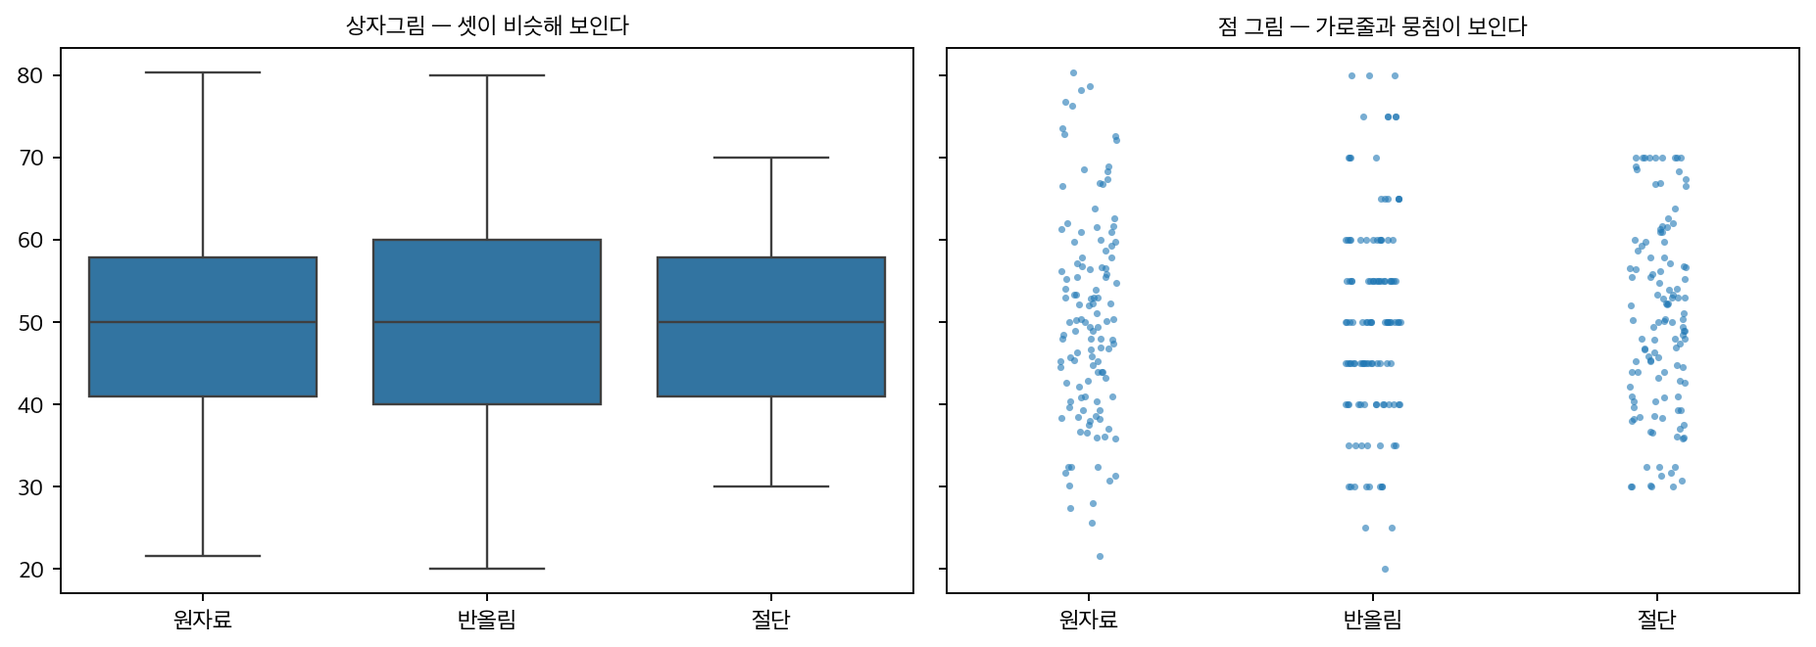
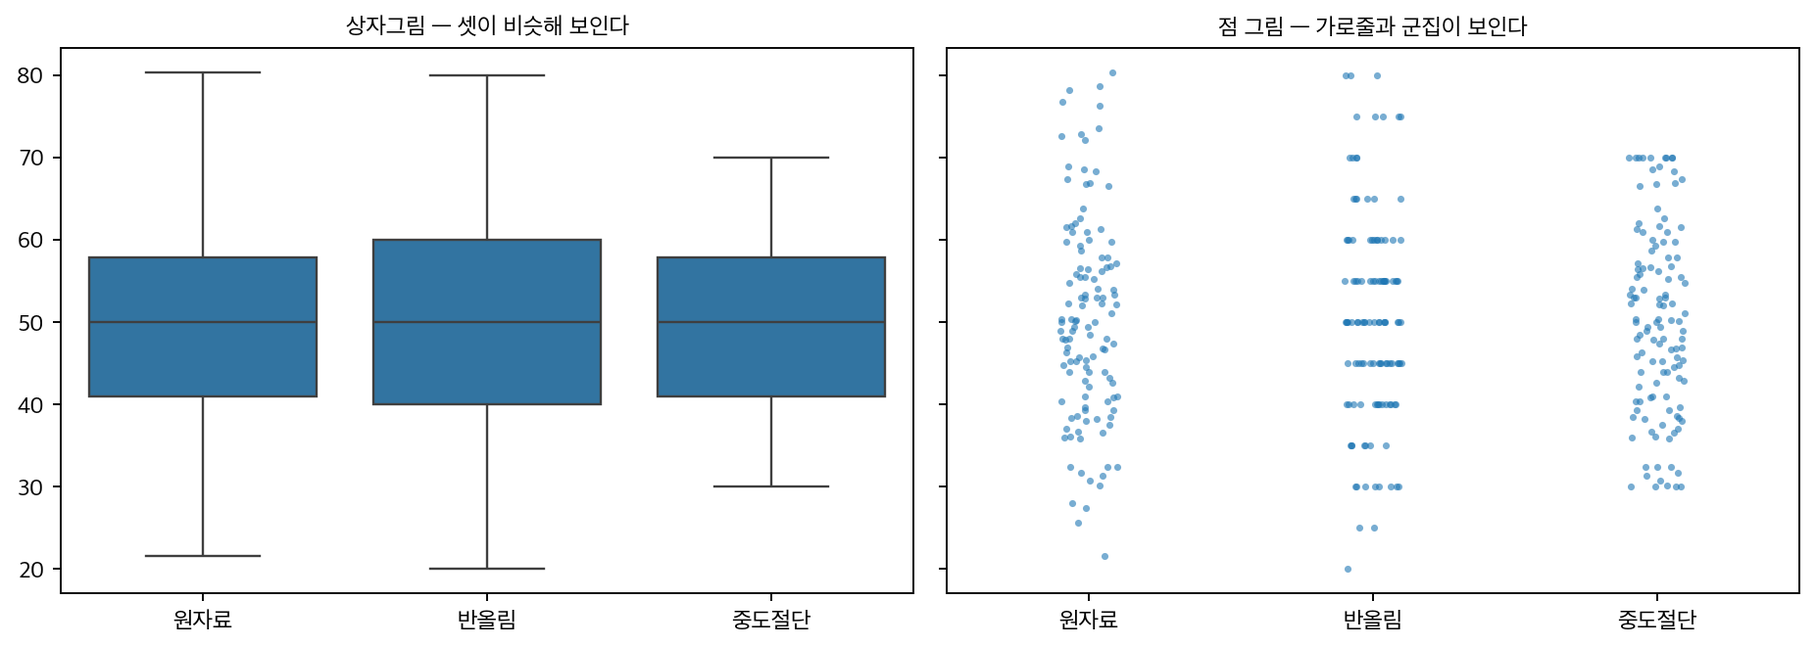
style(ch00–03): 받아들인 권고를 적용하고 용어를 맞춘다
사용자가 남은 권고를 모두 받아들였다. 사전부터 고쳤다 — 「균일분포」를 책 본문의 다수형
「균등분포」(427 대 7)로 바꾸고 「최소분산 불편추정량」을 올린 뒤 용어집을 다시 만들었다.

0~3장에서:
- 연속성 보정 → 연속성 수정 10 곳(clt·berry_esseen·mosaic·titanic_age_cutoff)
- 스노우 → 스노 3, 와이블 → 와이불 1, 부분집단 → 하위집단 4(모두 subgroup 뜻),
  \text{Geometric} → \text{Geo} 2
- strip_swarm: np.clip 으로 경계에 쌓는 것은 중도절단이다. 라벨·출력·그림을 「중도절단」으로
  바꾸고 strip_swarm_395.png 를 다시 그렸다(verify OK).
- 병기 도구가 괄호 안 첫 출현에 넣어 겹괄호가 된 두 자리(joint·modality)는 문장을 풀어 고쳤다.
- 권고가 「그대로 둔다」였던 셋은 두었다. 한글 표기가 책에 없는 로마자 인명 다섯은 짓지 않고 두었다.

diff --git a/docs/ch02/exploration/histograms.md b/docs/ch02/exploration/histograms.md
@@ -793,7 +793,7 @@ $$
 
 <figure markdown>
   ![1855년 책의 한 쪽. 위에 설명 한 문단이 있고 가운데에 세 줄짜리 표가 있다. 표의 세 칸은 집의 수, 콜레라 사망자 수, 만 집마다의 사망자 수다](./img/fd__snow1855_p86.png){ width=640 }
-  <figcaption markdown>존 스노우 『콜레라의 전파 방식에 관하여』 제 $2$ 판($1855$) $86$ 쪽의 「표 $\mathrm{IX}$」. 세 칸이 차례로 **집의 수**, **콜레라 사망자 수**, 그리고 **만 집마다의 사망자 수**다. 머리글은 「$1854$ 년의 유행」이다. *(Wellcome Library 스캔)*</figcaption>
+  <figcaption markdown>존 스노 『콜레라의 전파 방식에 관하여』 제 $2$ 판($1855$) $86$ 쪽의 「표 $\mathrm{IX}$」. 세 칸이 차례로 **집의 수**, **콜레라 사망자 수**, 그리고 **만 집마다의 사망자 수**다. 머리글은 「$1854$ 년의 유행」이다. *(Wellcome Library 스캔)*</figcaption>
 </figure>
 
 위 식이 백분율을 폭으로 나누는 것처럼, 도수를 **그 갈래의 크기로 나누어** 비율(율)로 고쳐야 할 때가 있다. 왜 굳이 나누는지를 한 장으로 보여 주는 표가 있다.
@@ -808,13 +808,13 @@ $$
 
 가장 많이 죽은 곳은 **나머지 런던**이다. 그런데 집의 수가 각각 $40{,}046$, $26{,}107$, $256{,}423$ 으로 하늘과 땅 차이다. 집의 수로 나누어 만 집마다로 고치면 순서가 뒤집힌다 — $315$, $37$, 그리고 $59$. 사망자가 가장 많던 나머지 런던이 둘째로 **안전한** 쪽이 되고, 사망자 수로는 나머지 런던보다 적던 회사가 다섯 배 넘게 위험한 쪽이 된다. 책은 바로 아래 문장에서 이렇게 맺는다 — 그 회사의 집에서의 사망률은 다른 회사의 집보다 **여덟 배와 아홉 배 사이**로 컸다고. $315\div37=8.5$ 이니 그대로다.
 
-같은 유행을 **다른 각도**에서 읽은 것이 1.2절 [관찰연구](../../ch01/classical/observational.md)의 상자다. 거기서는 스노우가 그린 **지도**를 보며, 펌프마다 「가장 가까운 구역」을 두른 점선이 처치를 받은 구역과 받지 않은 구역을 가른 선이라는 것을 따진다.
+같은 유행을 **다른 각도**에서 읽은 것이 1.2절 [관찰연구](../../ch01/classical/observational.md)의 상자다. 거기서는 스노가 그린 **지도**를 보며, 펌프마다 「가장 가까운 구역」을 두른 점선이 처치를 받은 구역과 받지 않은 구역을 가른 선이라는 것을 따진다.
 
 나누지 않았다면 이 표는 「런던 전체가 문제」라고 말했을 것이다. 나누고 나서야 **물을 어디서 떠 왔는가**가 드러났다. 크기로 나누는 일이 하는 것이 그것이다 — 크기가 다른 집단을 같은 척도 위에 올려놓는 일이다. 위 도수분포표에서 폭이 다른 계급의 높이를 폭으로 나누어 맞추는 것도 똑같은 셈이다.
 
 덧붙여, 표를 직접 맞추어 보면 셋째 줄이 어긋난다. $1{,}263\div40{,}046$ 은 만 집당 $315.4$ 이고 $98\div26{,}107$ 은 $37.5$ 로 적힌 값과 맞는데, $1{,}422\div256{,}423$ 은 $55.5$ 여서 표의 $59$ 와 다르다. 손으로 수천 개를 셈하던 시절의 자취일 것이다. 다행히 이 불일치는 글의 주장을 건드리지 않는다. 견주는 두 줄은 맞고, $315$ 와 $37$ 의 거리는 그런 정도로 좁혀지지 않는다.
 
-_확인한 곳 — 스캔은 [Internet Archive 에 올라온 Wellcome Library 사본](https://archive.org/details/b28985266) — 존 스노우, 『콜레라의 전파 방식에 관하여』 제 $2$ 판(런던, $1855$), 저자가 $1858$ 년에 죽어 저작권이 만료되었다. 쪽 번호 $86$, 머리글 「$1854$ 년의 유행」, 「유행의 첫 일곱 주 동안 만 집에 대한 사망자의 비율」이라는 들머리, 표 $\mathrm{IX}$ 의 아홉 칸($40{,}046$／$1{,}263$／$315$, $26{,}107$／$98$／$37$, $256{,}423$／$1{,}422$／$59$), 그리고 「여덟 배와 아홉 배 사이로 컸다」는 바로 아래 문장은 모두 **사진에서 직접 읽었다** · 두 회사가 템스강의 서로 다른 자리에서 물을 떠 왔다는 것은 같은 책의 앞부분에 있다 · **나눗셈은 이 쪽에서 직접 해 보았다** — $315.4$, $37.5$, $55.5$ 이고 $315\div37=8.51$ 이다. 셋째 줄이 표의 $59$ 와 어긋나는 것도 그 계산에서 나온 것이다_
+_확인한 곳 — 스캔은 [Internet Archive 에 올라온 Wellcome Library 사본](https://archive.org/details/b28985266) — 존 스노, 『콜레라의 전파 방식에 관하여』 제 $2$ 판(런던, $1855$), 저자가 $1858$ 년에 죽어 저작권이 만료되었다. 쪽 번호 $86$, 머리글 「$1854$ 년의 유행」, 「유행의 첫 일곱 주 동안 만 집에 대한 사망자의 비율」이라는 들머리, 표 $\mathrm{IX}$ 의 아홉 칸($40{,}046$／$1{,}263$／$315$, $26{,}107$／$98$／$37$, $256{,}423$／$1{,}422$／$59$), 그리고 「여덟 배와 아홉 배 사이로 컸다」는 바로 아래 문장은 모두 **사진에서 직접 읽었다** · 두 회사가 템스강의 서로 다른 자리에서 물을 떠 왔다는 것은 같은 책의 앞부분에 있다 · **나눗셈은 이 쪽에서 직접 해 보았다** — $315.4$, $37.5$, $55.5$ 이고 $315\div37=8.51$ 이다. 셋째 줄이 표의 $59$ 와 어긋나는 것도 그 계산에서 나온 것이다_
 
 </div>
 

diff --git a/docs/ch03/limits/clt.md b/docs/ch03/limits/clt.md
@@ -2,7 +2,7 @@
 
 ## 개요
 
-평평한 균등분포, 오른쪽으로 길게 늘어진 로그정규분포, 값이 $0$ 과 $1$ 둘뿐인 베르누이분포 — 어느 것도 종 모양이 아니다. 그런데 각각에서 표본 쉰 개의 평균을 표준화해 모아 보면 표준정규분포와의 거리가 $0.018$, $0.029$, $0.085$ 로 한자리에 모여 든다. 로그정규분포의 왜도도 $n = 5$ 의 $+1.62$ 에서 $n = 50$ 의 $+0.41$ 로 씻겨 나간다. 그런데 같은 쉰 개로 만든 $95\%$ 신뢰구간의 실제 포함확률은 치우친 분포에서 아직 명목값에 못 미친다. 모집단의 모양은 셈의 어느 자리에서 사라지며, 사라졌다고 보아도 될 $n$ 은 얼마인가.
+평평한 균등분포(uniform distribution), 오른쪽으로 길게 늘어진 로그정규분포, 값이 $0$ 과 $1$ 둘뿐인 베르누이분포 — 어느 것도 종 모양이 아니다. 그런데 각각에서 표본 쉰 개의 평균을 표준화해 모아 보면 표준정규분포와의 거리가 $0.018$, $0.029$, $0.085$ 로 한자리에 모여 든다. 로그정규분포의 왜도도 $n = 5$ 의 $+1.62$ 에서 $n = 50$ 의 $+0.41$ 로 씻겨 나간다. 그런데 같은 쉰 개로 만든 $95\%$ 신뢰구간의 실제 포함확률은 치우친 분포에서 아직 명목값에 못 미친다. 모집단의 모양은 셈의 어느 자리에서 사라지며, 사라졌다고 보아도 될 $n$ 은 얼마인가.
 
 큰수의 법칙은 표본평균(sample mean)이 **어디로** 가는지 알려 주었다. 그러나 어떻게 가는지는 말해 주지 않았다. $n = 100$에서 표본평균이 $\mu$에서 얼마나 떨어져 있을 가능성이 큰가? 그 오차의 분포는 어떤 모양인가?
 
@@ -347,7 +347,7 @@ $$
 
     **도착 순서는 [KS](../../glossary.md#ks) 거리가 매긴다.** $n = 5$에서 균등 $0.019$, 지수 $0.057$, 로그정규 $0.083$이고, $n = 50$에서는 각각 $0.018$, $0.029$, $0.029$다. **치우친 분포일수록 늦게 도착할 뿐 도착하지 않는 것은 아니다.** 왜도(skew)가 지수분포에서 $0.95 \to 0.32$로, 로그정규에서 $1.62 \to 0.41$로 줄어드는 것이 그 과정이며, 둘 다 대략 $1/\sqrt n$의 속도다($\sqrt{50/5} = 3.16$배 줄어야 하고 실제로 $3.0$배, $4.0$배 줄었다).
 
-    **베르누이는 다른 이유로 뒤처진다.** $\bar X_n$이 격자 $k/n$ 위에만 있으므로 히스토그램이 매끄러운 곡선이 될 수 없고, KS 거리가 $n = 35$ 이후 $0.082$–$0.085$에서 더 내려가지 않는다. 격자분포의 누적분포함수(cumulative distribution function)는 계단이어서, 연속인 정규분포와의 KS 거리가 **가장 큰 도약의 절반**보다 작아질 수 없기 때문이다. $n = 50$, $p = 0.3$에서 가장 큰 확률질량이 $P(S_{50} = 15) = 0.1223$이므로 그 하한이 $0.061$이고, 관측된 $0.085$가 그 위에 놓인다. **이것은 수렴이 멈춘 것이 아니라 이산성이 남긴 계단이며**, 이 절 뒤의 [베리–에센 정리](berry_esseen.md) 페이지가 그 계단의 크기를 정확히 재고 연속성 보정으로 어떻게 다루는지 다룬다.
+    **베르누이는 다른 이유로 뒤처진다.** $\bar X_n$이 격자 $k/n$ 위에만 있으므로 히스토그램이 매끄러운 곡선이 될 수 없고, KS 거리가 $n = 35$ 이후 $0.082$–$0.085$에서 더 내려가지 않는다. 격자분포의 누적분포함수(cumulative distribution function)는 계단이어서, 연속인 정규분포와의 KS 거리가 **가장 큰 도약의 절반**보다 작아질 수 없기 때문이다. $n = 50$, $p = 0.3$에서 가장 큰 확률질량이 $P(S_{50} = 15) = 0.1223$이므로 그 하한이 $0.061$이고, 관측된 $0.085$가 그 위에 놓인다. **이것은 수렴이 멈춘 것이 아니라 이산성이 남긴 계단이며**, 이 절 뒤의 [베리–에센 정리](berry_esseen.md) 페이지가 그 계단의 크기를 정확히 재고 연속성 수정으로 어떻게 다루는지 다룬다.
 
     $n = 5$에서 베르누이 윗줄의 확률이 정확히 $1.000$인 것도 같은 이산성 때문이다. 이때 $\bar X_5$가 가질 수 있는 값은 $0, 0.2, 0.4, \ldots$뿐이라 $\mu = 0.3$에서 최소 $0.1$은 떨어지는데, $\varepsilon = 0.2\sigma = 0.092$가 그보다 좁다. **한 번도 띠 안에 들어올 수 없는 것이고, 모의실험의 우연이 아니다.**
 

diff --git a/docs/ch03/limits/berry_esseen.md b/docs/ch03/limits/berry_esseen.md
@@ -365,7 +365,7 @@ $\rho/\sigma^3$은 왜도(skewness)의 사촌이다. 왜도가 $E[(X-\mu)^3]/\si
 
 **보기 4.** <span class="diff easy" title="쉬움"></span> 분포별 정규근사의 수렴 속도. 베르누이(0.5)·균등(0,1)·지수(1)의 베리–에센 상한을 $n = 5$부터 $500$까지 겹쳐 그린다.
 
-**(1)** 세 곡선의 높이 비를 $\rho/\sigma^3$으로 구하시오. 균등분포의 $\rho$는 적분으로 직접 구하시오.
+**(1)** 세 곡선의 높이 비를 $\rho/\sigma^3$으로 구하시오. 균등분포(uniform distribution)의 $\rho$는 적분으로 직접 구하시오.
 
 **(2)** 상한이 $0.1$ 이하가 되려면 각각 $n$이 얼마여야 하는가. 그려서 확인하시오.
 
@@ -674,12 +674,12 @@ $\mu = 1$, $\sigma = 1$, $\rho = E[|X-1|^3] = 12e^{-1} - 2 \approx 2.4146$인 Ex
 <div class="drillbox" markdown>
 
 **연습문제 6.** <span class="diff med" title="중간"></span>
-연습문제 $5$ 에서 오차의 정체가 **이산성**임을 보았다. 그렇다면 **연속성 보정**으로 없앨 수 있는가? 대칭인 경우와 치우친 경우를 나누어 확인하라.
+연습문제 $5$ 에서 오차의 정체가 **이산성**임을 보았다. 그렇다면 **연속성 수정**(continuity correction)으로 없앨 수 있는가? 대칭인 경우와 치우친 경우를 나누어 확인하라.
 
 </div>
 
 ??? success "풀이"
-    연속성 보정은 $P(S_n\le k)$를 $\Phi$에 넣을 때 $k$ 대신 $k+\tfrac12$을 쓴다. **계단의 중간점**을 쓰는 것이므로, 연습문제 $5$의 "계단 절반" 오차를 정확히 겨냥한다.
+    연속성 수정은 $P(S_n\le k)$를 $\Phi$에 넣을 때 $k$ 대신 $k+\tfrac12$을 쓴다. **계단의 중간점**을 쓰는 것이므로, 연습문제 $5$의 "계단 절반" 오차를 정확히 겨냥한다.
 
     ```python
     import numpy as np
@@ -747,23 +747,23 @@ $\mu = 1$, $\sigma = 1$, $\rho = E[|X-1|^3] = 12e^{-1} - 2 \approx 2.4146$인 Ex
     \;+\;\underbrace{\frac{S(\cdot)}{\sigma\sqrt n}\phi(x)}_{\text{격자 항}}+O(n^{-1})
     $$
 
-    | 경우 | 왜도 항 | 격자 항 | 연속성 보정 후 |
+    | 경우 | 왜도 항 | 격자 항 | 연속성 수정 후 |
     |---|---|---|---|
     | $p=0.5$ | $\gamma_1=0$이라 **없음** | 있음 | 둘 다 사라져 $O(n^{-1})$ |
     | $p=0.1$ | $\gamma_1\ne0$이라 **남음** | 있음 | 격자 항만 제거, 여전히 $O(n^{-1/2})$ |
 
-    **연속성 보정은 격자 항만 지운다.** 대칭분포는 왜도가 $0$이라 그것으로 충분하고, 치우친 분포는 왜도 항이 남는다.
+    **연속성 수정은 격자 항만 지운다.** 대칭분포는 왜도가 $0$이라 그것으로 충분하고, 치우친 분포는 왜도 항이 남는다.
 
     **처방이 명확해진다.**
 
     | 상황 | 해야 할 일 |
     |---|---|
-    | 대칭 이산분포 | 연속성 보정으로 충분 |
+    | 대칭 이산분포 | 연속성 수정으로 충분 |
     | 치우친 이산분포 | 보정 **더하기** 왜도 보정(에지워스) |
     | 왜도가 매우 큼($np<5$) | 근사를 버리고 **정확 계산**(`scipy.stats.binom`) |
     | 꼬리확률이 중요 | 정확 계산 또는 안장점 근사(saddlepoint approximation) |
 
-    **현대적 결론.** 연속성 보정은 계산이 비쌌던 시절의 유산이지만, 지금도 **왜 근사가 틀리는지**를 분해해 보여주는 도구로서 가치가 있다. 실제 계산에서는 이항분포의 정확한 확률을 그냥 구하면 되고, 근사가 필요한 경우는 이항분포가 더 큰 모형의 한 부품일 때다.
+    **현대적 결론.** 연속성 수정은 계산이 비쌌던 시절의 유산이지만, 지금도 **왜 근사가 틀리는지**를 분해해 보여주는 도구로서 가치가 있다. 실제 계산에서는 이항분포의 정확한 확률을 그냥 구하면 되고, 근사가 필요한 경우는 이항분포가 더 큰 모형의 한 부품일 때다.
 
 ---
 

diff --git a/docs/ch02/visualization/strip_swarm.md b/docs/ch02/visualization/strip_swarm.md
@@ -646,15 +646,15 @@
     n = 120
     true = rng.normal(50, 12, n)
     rounded = np.round(true / 5) * 5                       # 5 단위로 반올림
-    censored = np.clip(true, 30, 70)                       # 측정 한계에서 잘림
+    censored = np.clip(true, 30, 70)                       # 측정 한계에서 경계로 쌓임(중도절단)
 
-    for name, d in [("원자료", true), ("5 단위 반올림", rounded), ("30~70 에서 절단", censored)]:
+    for name, d in [("원자료", true), ("5 단위 반올림", rounded), ("30~70 에서 중도절단", censored)]:
         u = len(np.unique(np.round(d, 6)))
         print(f"{name:>14}: 서로 다른 값 {u:>3}개 / {n}개   "
               f"중앙값 {np.median(d):.2f}   IQR {np.subtract(*np.percentile(d, [75, 25])):.2f}")
 
     fig, axes = plt.subplots(1, 2, figsize=(11, 4), sharey=True)
-    label = np.repeat(["원자료", "반올림", "절단"], n)
+    label = np.repeat(["원자료", "반올림", "중도절단"], n)
     flat = np.concatenate([true, rounded, censored])
     sns.boxplot(x=label, y=flat, ax=axes[0])
     axes[0].set_title("상자그림 — 셋이 비슷해 보인다", fontsize=10)
@@ -669,22 +669,22 @@
     ```
                원자료: 서로 다른 값 120개 / 120개   중앙값 49.99   IQR 16.82
           5 단위 반올림: 서로 다른 값  13개 / 120개   중앙값 50.00   IQR 20.00
-       30~70 에서 절단: 서로 다른 값 109개 / 120개   중앙값 49.99   IQR 16.82
+     30~70 에서 중도절단: 서로 다른 값 109개 / 120개   중앙값 49.99   IQR 16.82
     ```
 
-    ![반올림과 절단이 점 그림에 드러나는 모습](./img/strip_swarm_395.png)
+    ![반올림과 중도절단이 점 그림에 드러나는 모습](./img/strip_swarm_395.png)
 
     **상자그림에서는 세 자료가 비슷해 보인다.** 중앙값과 [IQR](../../glossary.md#iqr)이 크게 다르지 않기 때문이다.
 
     **점 그림에서는 즉시 드러난다.**
 
     - **반올림 자료**는 점들이 **가로줄로 늘어선다.** $5$의 배수에만 점이 있으므로 이산적인 층이 보인다(2.2절 [히스토그램과 밀도 그림](../exploration/histograms.md) 연습문제 9의 자릿수 쏠림).
-    - **절단 자료**는 $30$과 $70$에 점이 **빽빽하게 쌓인다.** 측정 한계 밖의 값이 모두 그 지점으로 모였기 때문이다.
+    - **중도절단(censoring) 자료**는 $30$과 $70$에 점이 **빽빽하게 쌓인다.** 측정 한계 밖의 값이 모두 그 지점으로 모였기 때문이다.
 
     **왜 이것이 중요한가.**
 
     - **반올림은 분산을 부풀리고**(왜도(skewness)·첨도(kurtosis) 쪽 연습문제에서 본 대로) 특정 분위수를 반올림된 값에 고정시킨다.
-    - **절단은 양 끝의 값을 경계로 끌어당겨 분포를 왜곡한다.** 절단된 자료로 계산한 표준편차는 참값보다 작다.
+    - **중도절단은 양 끝의 값을 경계로 끌어당겨 분포를 왜곡한다.** 중도절단된 자료로 계산한 표준편차는 참값보다 작다.
     - **둘 다 요약통계량만으로는 알 수 없다.** 원자료를 보아야 한다.
 
     **점 그림의 고유한 가치가 여기 있다.** 상자그림·바이올린·히스토그램은 모두 자료를 **요약하거나 평활**하므로 이산성을 지운다. 점 그림만이 관측값을 있는 그대로 보여 준다.

diff --git a/docs/ch01/contrast/analyze_available.md b/docs/ch01/contrast/analyze_available.md
@@ -349,7 +349,7 @@ _확인한 곳 — Xiao-Li Meng, 「Statistical Paradises and Paradoxes in Big D
         young = rng.random(n) < 0.5
 
         pvals = []
-        for subset in (np.ones(n, bool), male, ~male, young, ~young):   # 부분집단
+        for subset in (np.ones(n, bool), male, ~male, young, ~young):   # 하위집단
             for transform in (lambda v: v, np.abs):                     # 변환
                 for exclude in (False, True):                           # 이상치 제외
                     m = subset & (np.abs(x) < 2) if exclude else subset
@@ -375,7 +375,7 @@ _확인한 곳 — Xiao-Li Meng, 「Statistical Paradises and Paradoxes in Big D
     단일 분석만 했다면:             0.0500
     ```
 
-    **부분집단 $5$가지 $\times$ 변환 $2$가지 $\times$ 이상치 처리 $2$가지 $=$ 갈래 $20$개**만으로 거짓양성 확률이 $5\%$에서 **$40\%$** 로 뛴다.
+    **하위집단 $5$가지 $\times$ 변환 $2$가지 $\times$ 이상치 처리 $2$가지 $=$ 갈래 $20$개**만으로 거짓양성 확률이 $5\%$에서 **$40\%$** 로 뛴다.
 
     **$p$-해킹과 무엇이 다른가.** 이것이 연습문제 4의 핵심이다.
 
@@ -384,7 +384,7 @@ _확인한 곳 — Xiao-Li Meng, 「Statistical Paradises and Paradoxes in Big D
 
     그런데 통계적 결과는 같다. "이 자료가 달랐다면 나는 다른 분석을 했을 것"이라면, 실제로 돌린 분석이 하나뿐이어도 유효 검정 횟수는 $20$이다. **$p$ 값의 의미는 내가 한 일이 아니라 내가 했을 법한 일 전체에 달려 있다.**
 
-    **왜 가용 자료 분석에서 특히 심한가.** 설계된 실험에는 사전에 정한 하나의 결과변수와 하나의 분석이 있다. 클릭스트림 자료에는 수백 개의 변수, 수십 개의 자연스러운 부분집단, 여러 가지 그럴듯한 결과 정의가 있다. **정원의 갈래가 훨씬 많다.**
+    **왜 가용 자료 분석에서 특히 심한가.** 설계된 실험에는 사전에 정한 하나의 결과변수와 하나의 분석이 있다. 클릭스트림 자료에는 수백 개의 변수, 수십 개의 자연스러운 하위집단, 여러 가지 그럴듯한 결과 정의가 있다. **정원의 갈래가 훨씬 많다.**
 
     처방은 사전등록(1.2절 [자료 수집을 설계하라](design_data.md) 연습문제 6), 자료 분할(탐색용과 확증용을 나눔), 그리고 다중성 보정이다.
 

diff --git a/docs/ch02/shape/modality.md b/docs/ch02/shape/modality.md
@@ -347,7 +347,7 @@
 </div>
 
 ??? success "풀이"
-    **딥 검정:** 경험적 누적분포함수(cumulative distribution function)와 가장 가까운 *단봉* 누적분포함수(어느 점까지는 볼록하고 그 뒤로는 오목해서 변곡점이 하나뿐인 것 — 밀도가 그 점까지 오르다가 내려간다는 뜻이다) 사이의 최대 수직 거리를 계산한다. 단봉이라는 귀무가설 아래에서 이 딥 통계량은 작고, 이봉이나 다봉이라는 대립가설(alternative hypothesis) 아래에서는 어떤 단봉 누적분포함수도 경험적인 것을 가깝게 근사할 수 없으므로 커진다. (균등분포 귀무가설에서 모의실험으로 계산한) 기준 분포가 $p$ 값을 제공한다.
+    **딥 검정:** 경험적 누적분포함수(cumulative distribution function)와 가장 가까운 *단봉* 누적분포함수(어느 점까지는 볼록하고 그 뒤로는 오목해서 변곡점이 하나뿐인 것 — 밀도가 그 점까지 오르다가 내려간다는 뜻이다) 사이의 최대 수직 거리를 계산한다. 단봉이라는 귀무가설 아래에서 이 딥 통계량은 작고, 이봉이나 다봉이라는 대립가설(alternative hypothesis) 아래에서는 어떤 단봉 누적분포함수도 경험적인 것을 가깝게 근사할 수 없으므로 커진다. 균등분포(uniform distribution)를 귀무가설로 두고 모의실험으로 계산한 기준 분포가 $p$ 값을 제공한다.
 
     **대안 — 실버만의 대역폭 검정:** 가우시안 KDE가 많아야 $k$개의 최빈값을 갖게 하는 가장 작은 대역폭 $h$를 찾는다. 이 임계 대역폭이 귀무가설(봉우리 $k$개 이하) 아래에서 기대되는 것보다 유의하게 크면 "최빈값이 많아야 $k$개"라는 귀무가설을 기각한다. 부트스트랩(bootstrap) 보정으로 $p$ 값을 구한다.
 

diff --git a/docs/ch00/math/limits.md b/docs/ch00/math/limits.md
@@ -702,7 +702,7 @@ $$
       1/log n 속도: n -> n^10       = 10^60
     ```
 
-    **해석.** $n^{-1/2}$은 정칙 모수추정의 표준 속도다. 정밀도를 한 자릿수 올리려면 자료가 $100$배 필요하다. $n^{-1}$은 정칙 조건이 깨진 문제에서 나오는 더 빠른 속도로, 균등분포 $U(0,\theta)$에서 $\hat\theta = \max_i X_i$가 이 속도를 낸다. 모수가 지지집합(support)의 경계에 놓여 있어 그 경계가 정보를 특별히 많이 주기 때문이다.
+    **해석.** $n^{-1/2}$은 정칙 모수추정의 표준 속도다. 정밀도를 한 자릿수 올리려면 자료가 $100$배 필요하다. $n^{-1}$은 정칙 조건이 깨진 문제에서 나오는 더 빠른 속도로, 균등분포(uniform distribution) $U(0,\theta)$에서 $\hat\theta = \max_i X_i$가 이 속도를 낸다. 모수가 지지집합(support)의 경계에 놓여 있어 그 경계가 정보를 특별히 많이 주기 때문이다.
 
     $1/\log n$은 재앙에 가깝다. 표본이 $10^6$개여도 오차가 $0.072$에 머문다. 더 나쁜 것은 개선의 값이다. 오차를 열 배 줄이려면 $\log n$을 열 배로 만들어야 하므로 $n \to n^{10}$, 곧 표본이 $10^{60}$개 필요하다. 앞의 두 속도처럼 **일정한 배수로 해결되는 문제가 아니다.** 비모수 추정의 어려운 문제에서 이런 로그 속도가 나타나고, 고차원 비모수 추정에서도 속도의 지수가 차원과 함께 작아져 같은 방향으로 무너진다. **차원의 저주**가 가리키는 것이 이 현상이다. 문제를 모수적으로 좁히는 것이 단순한 편의가 아니라 실현 가능성의 문제인 이유다.
 

diff --git a/docs/ch02/spread/descriptive_stats_weed_prices.md b/docs/ch02/spread/descriptive_stats_weed_prices.md
@@ -1016,7 +1016,7 @@ $$
 
     이 걸린다. 완전히 고르다면 $48/15 = 3.20$ 개다. **실제 도수는 $2$ 에서 $5$ 사이**이고 대부분 $3$ 이나 $4$ 다. 어긋나는 자리는 하강 속도가 일정하지 않은 자리다. 월별 변화가 $-0.51$ 에서 $+0.04$ 까지 걸쳐 있는데, 맨 위 칸에 다섯 개가 몰린 것은 그 안의 간격이 $0.35, 0.22, 0.04, 0.12$ 로 대체로 평균보다 촘촘했기 때문이다.
 
-    **평평함을 한 수치로 말하려면 초과첨도를 쓴다.** 관측값이 $-1.1259$ 인데 **연속균등분포의 초과첨도가 정확히 $-6/5 = -1.2$** 이다. 거의 균등하다는 인상이 이 한 수에 담긴다. 산포로 재도 같은 말이 나온다. 같은 범위의 균등분포라면 $s = (\max-\min)/\sqrt{12} = 3.5189$ 이고 실제 $s = 3.7089$ 로 $5.4\%$ 차이뿐이다.
+    **평평함을 한 수치로 말하려면 초과첨도를 쓴다.** 관측값이 $-1.1259$ 인데 **연속균등분포의 초과첨도가 정확히 $-6/5 = -1.2$** 이다. 거의 균등하다는 인상이 이 한 수에 담긴다. 산포로 재도 같은 말이 나온다. 같은 범위의 균등분포(uniform distribution)라면 $s = (\max-\min)/\sqrt{12} = 3.5189$ 이고 실제 $s = 3.7089$ 로 $5.4\%$ 차이뿐이다.
 
     세로선 둘은 거의 겹쳐 보이지만 겹치지 않았다. 평균 $242.3102$, 중앙값 $242.0150$ 으로 평균이 $0.2952$ 달러, 곧 $0.080\,s$ 만큼 크고 왜도(skewness)는 $g_1 = 0.2091$ 이다. 오른쪽으로 아주 약하게 치우쳤다.
 
